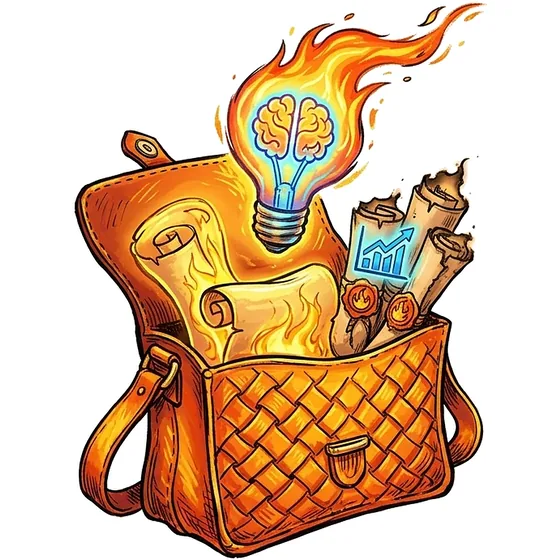
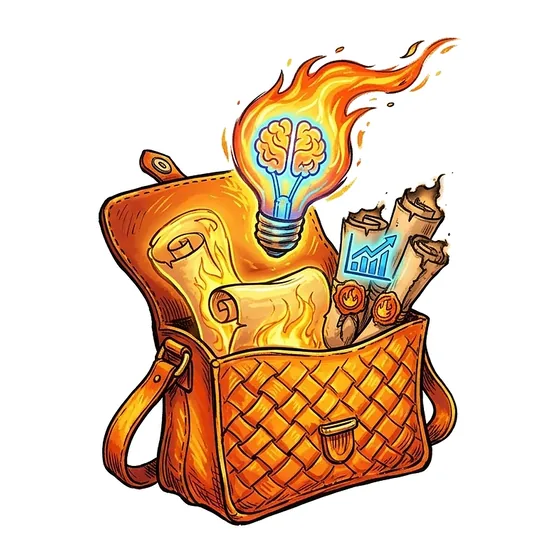
Иллюстрации в карточках: исходный масштаб без добавленных полей
- участники и участие: картинки снова из исходных квадратов 1024×1024,
  без обрезки и искусственных отступов — персонажи одного масштаба
- ссылки на картинки с ?v=2 для сброса кеша

diff --git a/index.html b/index.html
@@ -140,19 +140,19 @@
           <span class="card__num">01</span>
           <h3>Специалисты и фрилансеры</h3>
           <p class="muted">Работаете на себя или в найме и самостоятельно ведёте направление? В блоке «Люди в маркетинге» можно представить собственную работу и профессиональные достижения.</p>
-          <img class="card__figure" src="img/characters/1-web-developer.webp" alt="" width="600" height="600" loading="lazy" decoding="async" />
+          <img class="card__figure" src="img/characters/1-web-developer.webp?v=2" alt="" width="600" height="600" loading="lazy" decoding="async" />
         </article>
         <article class="card">
           <span class="card__num">02</span>
           <h3>Агентства и группы специалистов</h3>
           <p class="muted">Создаёте проекты для заказчиков? Представьте кейс, который показывает, какие задачи вы решаете, как работаете и какого результата добиваетесь. Оцениваем конкретные проекты и кампании.</p>
-          <img class="card__figure" src="img/characters/6-digital-marketer.webp" alt="" width="600" height="600" loading="lazy" decoding="async" />
+          <img class="card__figure" src="img/characters/6-digital-marketer.webp?v=2" alt="" width="600" height="600" loading="lazy" decoding="async" />
         </article>
         <article class="card">
           <span class="card__num">03</span>
           <h3>Бренды и инхаус-команды</h3>
           <p class="muted">Развиваете маркетинг своего бизнеса? Покажите кампанию, контентный или SMM-проект, в котором решения вашей команды помогли достичь поставленных целей.</p>
-          <img class="card__figure" src="img/characters/3-project-manager.webp" alt="" width="600" height="600" loading="lazy" decoding="async" />
+          <img class="card__figure" src="img/characters/3-project-manager.webp?v=2" alt="" width="600" height="600" loading="lazy" decoding="async" />
         </article>
       </div>
 
@@ -174,22 +174,22 @@
         <article class="card">
           <h3>Заявить о своей работе</h3>
           <p class="muted">Представьте на конкурс проект, которым гордитесь. Покажите, что стоит за итоговыми цифрами: вашу идею, принятые решения и вклад в результат.</p>
-          <img class="card__figure" src="img/illustrations/1-briefcase.webp" alt="" width="560" height="560" loading="lazy" decoding="async" />
+          <img class="card__figure" src="img/illustrations/1-briefcase.webp?v=2" alt="" width="560" height="560" loading="lazy" decoding="async" />
         </article>
         <article class="card">
           <h3>Побороться за профессиональное признание</h3>
           <p class="muted">Ваш кейс рассмотрит экспертное жюри. Прохождение в шорт-лист или победа станут подтверждением того, что ваша работа получила признание по итогам конкурсной оценки.</p>
-          <img class="card__figure" src="img/illustrations/2-checklist.webp" alt="" width="560" height="560" loading="lazy" decoding="async" />
+          <img class="card__figure" src="img/illustrations/2-checklist.webp?v=2" alt="" width="560" height="560" loading="lazy" decoding="async" />
         </article>
         <article class="card">
           <h3>Усилить портфолио и репутацию</h3>
           <p class="muted">Статус финалиста или победителя можно использовать в портфолио, презентациях и коммерческих предложениях. Это дополнительный аргумент, когда вы представляете себя работодателю или обсуждаете сотрудничество с заказчиком.</p>
-          <img class="card__figure" src="img/illustrations/4-star-trophy.webp" alt="" width="560" height="560" loading="lazy" decoding="async" />
+          <img class="card__figure" src="img/illustrations/4-star-trophy.webp?v=2" alt="" width="560" height="560" loading="lazy" decoding="async" />
         </article>
         <article class="card">
           <h3>Сделать достижения команды заметнее</h3>
           <p class="muted">Подача кейса — повод собрать результаты совместной работы и показать вклад команды. А выход в шорт-лист или победа дадут основание рассказать об этих достижениях клиентам и профессиональному сообществу.</p>
-          <img class="card__figure" src="img/illustrations/3-portal.webp" alt="" width="560" height="560" loading="lazy" decoding="async" />
+          <img class="card__figure" src="img/illustrations/3-portal.webp?v=2" alt="" width="560" height="560" loading="lazy" decoding="async" />
         </article>
       </div>
 
@@ -362,7 +362,7 @@
           <p class="muted">Расскажите о своём проекте команде премии. Поможем сориентироваться в направлениях и требованиях к подаче.</p>
           <a class="btn" href="https://salebot.site/st/bw6e/conf_surov_forum_prem" target="_blank" rel="noopener">Подобрать номинацию</a>
         </div>
-        <img class="cta-strip__figure" src="img/characters/5-copywriter.webp" alt="" width="600" height="437" loading="lazy" decoding="async" />
+        <img class="cta-strip__figure" src="img/characters/5-copywriter.webp?v=2" alt="" width="600" height="437" loading="lazy" decoding="async" />
       </div>
     </div>
   </section>
